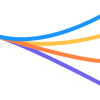
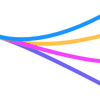
update UAM forecast color

Changed region(s): [[0.03, 0.39, 1.0, 0.63]]

diff --git a/docs/usage/interface.md b/docs/usage/interface.md
@@ -145,7 +145,7 @@ Use the tabs below the image to learn more about each section.
         <span style="color: #1895ff;">:fontawesome-solid-circle:</span>  **IOB Forecast:** Forecasts future glucose readings based on the amount of insulin still active in the body  
         <span style="color: #6f62f3;">:fontawesome-solid-circle:</span>  **ZT Forecast:** Forecasts the worst-case future glucose reading scenario if no carbs are absorbed and insulin delivery is stopped until glucose begins to rise  
         <span style="color: #ffc246;">:fontawesome-solid-circle:</span>  **COB Forecast:** Forecasts future glucose readings by considering the amount of carbohydrates still being absorbed in the body  
-        <span style="color: #ff8340;">:fontawesome-solid-circle:</span>  **UAM Forecast:** Forecasts future glucose levels based on the difference between expected glucose and actual glucose readings
+        <span style="color: #d12bf7;">:fontawesome-solid-circle:</span>  **UAM Forecast:** Forecasts future glucose levels based on the difference between expected glucose and actual glucose readings
     
     - - -
         
